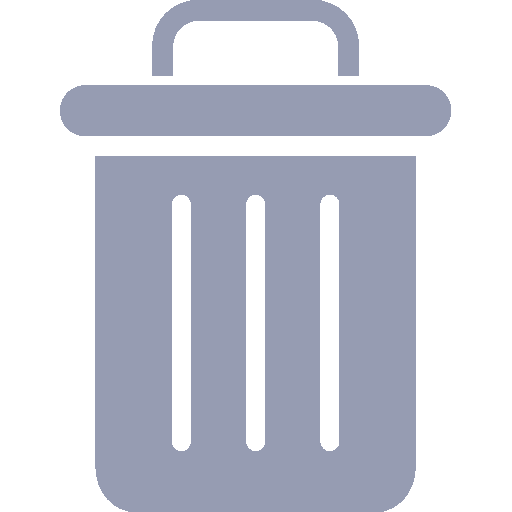
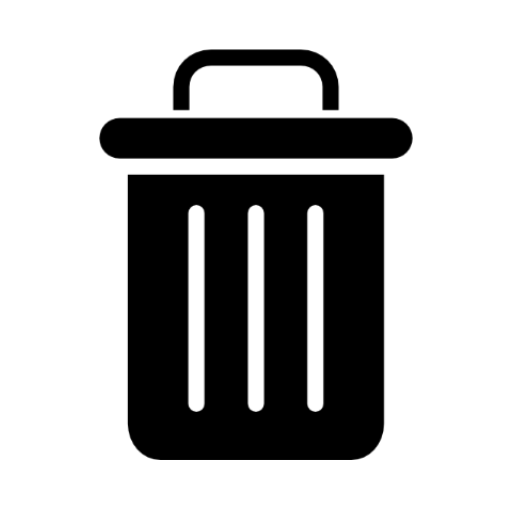
Alterei o estilo do botão delete

diff --git a/styles/styles/styles.scss b/styles/styles/styles.scss
@@ -7,6 +7,8 @@ body {
 .banner {
   .header {
     button {
+      cursor: pointer;
+
       background-color: $amarelo;
 
       font-family: Poppins;
@@ -16,10 +18,10 @@ body {
 
       padding: 12px 32px;
       border-radius: 5px;
-    }
 
-    button:hover {
-      background-color: $amarelo-escuro;
+      &:hover {
+        background-color: $amarelo-escuro;
+      }
     }
 
     padding: 3rem 2rem 2.5rem 2rem;
@@ -150,6 +152,25 @@ body {
 
         padding: 20px 32px;
         background-color: $branco;
+
+        button {
+          width: 20px;
+          height: 20px;
+          border-radius: 50%;
+          cursor: pointer;
+
+          img {
+            width: 22px;
+            height: 22px;
+            background: $branco;
+            &:hover {
+              background: $fundo-cinza;
+              padding: 2px;
+              border-radius: 50%;
+              filter: drop-shadow(0px 1px 1px rgba(0, 0, 0, 0.25));
+            }
+          }
+        }
       }
     }
 
@@ -186,6 +207,7 @@ body {
       width: 100%;
     }
     .button-close {
+      cursor: pointer;
       background-color: transparent;
       padding: 2px 10px;
       border-radius: 50px;
@@ -255,6 +277,8 @@ body {
         width: 200px;
       }
       .button-salvar {
+        cursor: pointer;
+
         background-color: $amarelo;
         border-radius: 5px;
 
@@ -265,9 +289,9 @@ body {
 
         padding: 12px 120px;
         margin-top: 50px;
-      }
-      .button-salvar:hover {
-        background-color: $amarelo-escuro;
+        &:hover {
+          background-color: $amarelo-escuro;
+        }
       }
 
       display: flex;

diff --git a/styles/styles/styles.css b/styles/styles/styles.css
@@ -16,6 +16,7 @@ body {
   margin: 0 auto;
 }
 .banner .header button {
+  cursor: pointer;
   background-color: #ffc843;
   font-family: Poppins;
   font-size: 16px;
@@ -144,11 +145,19 @@ body {
 .table table tbody td button {
   width: 20px;
   height: 20px;
+  border-radius: 50%;
+  cursor: pointer;
 }
 .table table tbody td button img {
-  width: 20px;
-  height: 20px;
+  width: 22px;
+  height: 22px;
   background: #ffffff;
+}
+.table table tbody td button img:hover {
+  background: #f0f2f5;
+  padding: 2px;
+  border-radius: 50%;
+  filter: drop-shadow(0px 1px 1px rgba(0, 0, 0, 0.25));
 }
 
 .modal {
@@ -186,6 +195,7 @@ body {
   width: 100%;
 }
 .modal .content .button-close {
+  cursor: pointer;
   background-color: transparent;
   padding: 2px 10px;
   border-radius: 50px;
@@ -251,6 +261,7 @@ body {
   width: 200px;
 }
 .modal .content form .button-salvar {
+  cursor: pointer;
   background-color: #ffc843;
   border-radius: 5px;
   font-family: Poppins;
